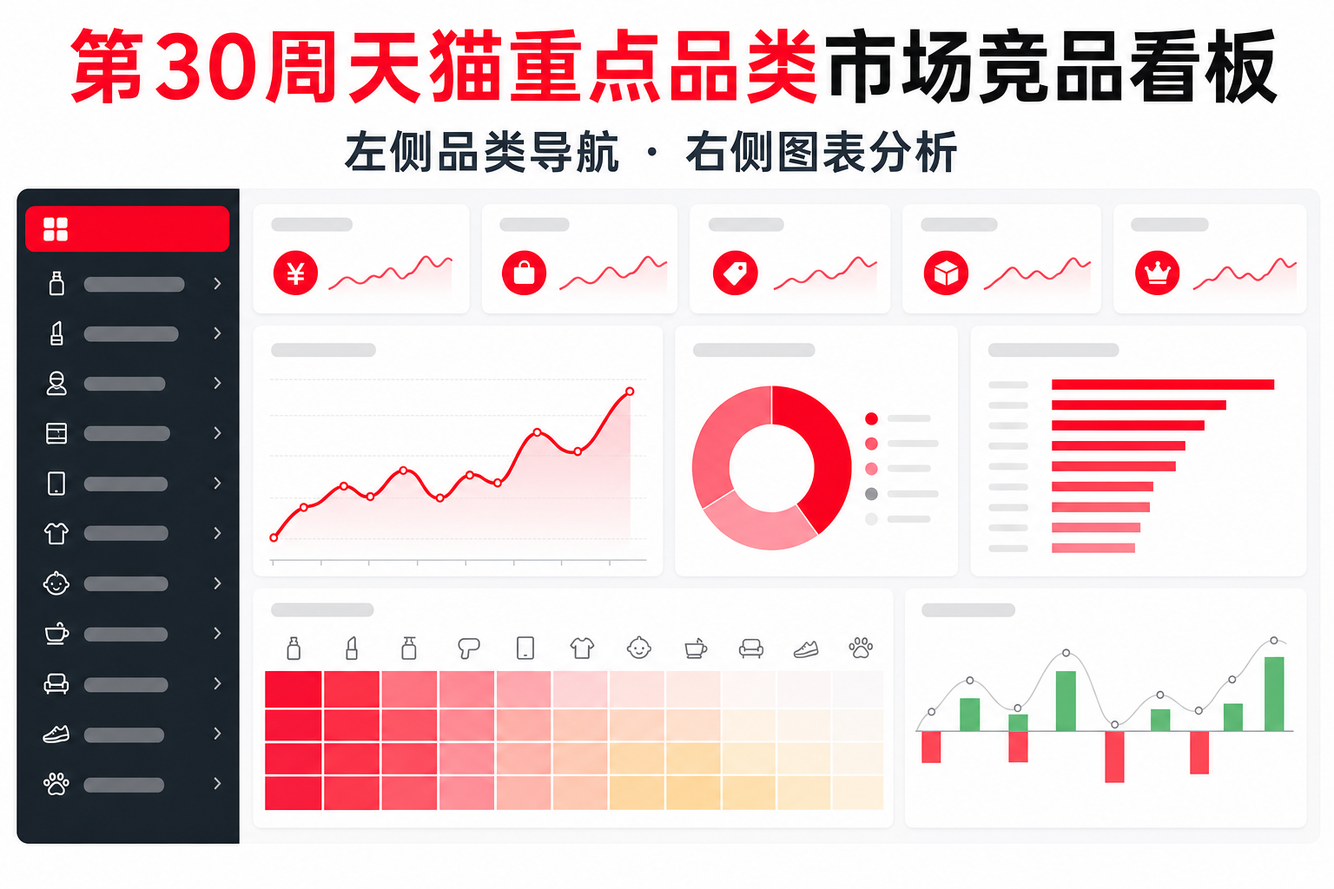
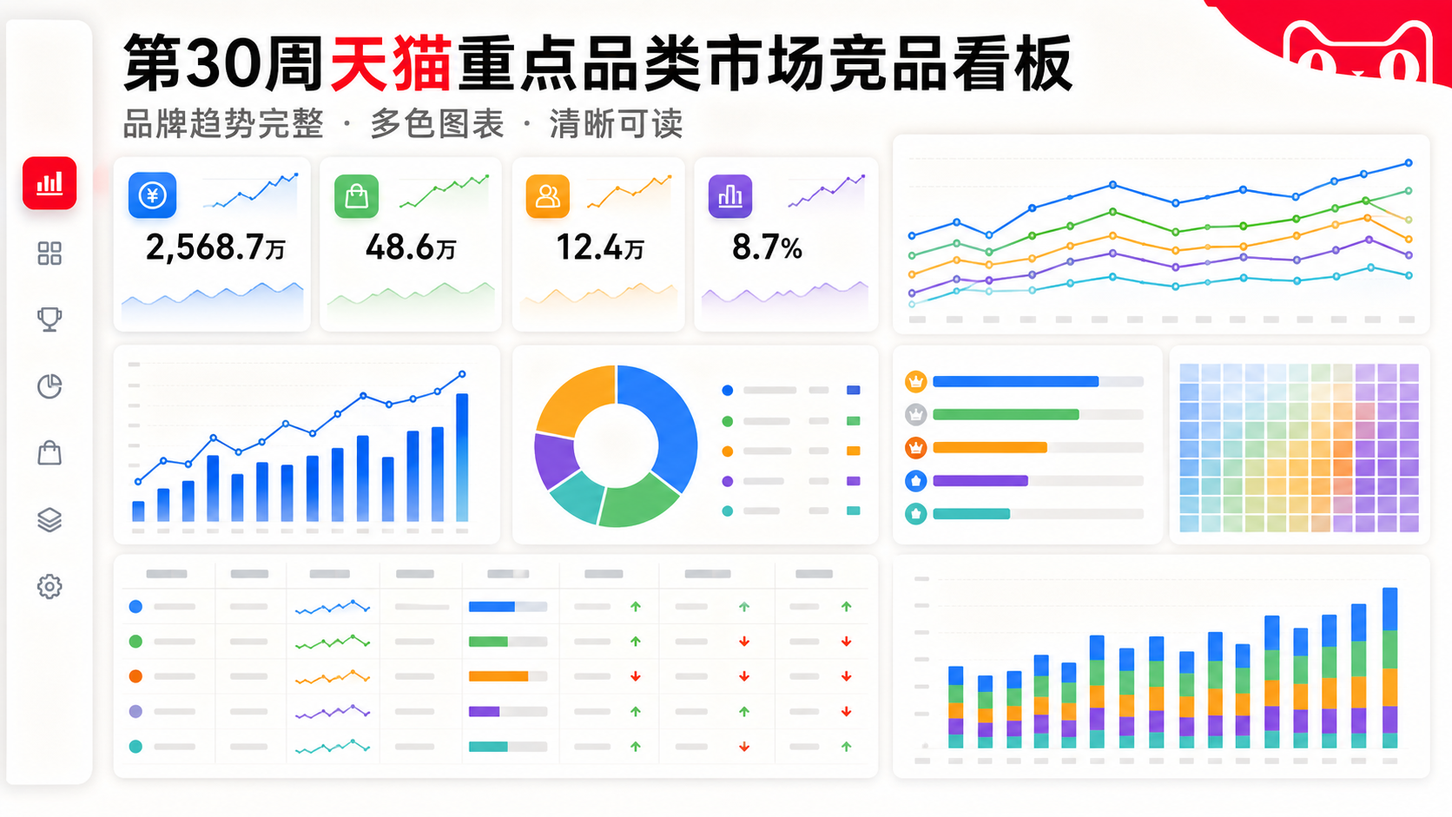
refine category analytics dashboard

diff --git a/app/globals.css b/app/globals.css
@@ -30,33 +30,36 @@ button,input,select { font:inherit; }
 .insight-banner span,.insight-banner strong{display:block}.insight-banner span{margin-bottom:4px;color:var(--red);font-size:11px;font-weight:800}.insight-banner strong{font-size:15px}.insight-banner p{margin:0;color:#60646a;font-size:12px;line-height:1.55}.insight-banner a{padding:9px 14px;color:#fff;background:var(--red);border-radius:5px;text-decoration:none;font-size:12px;font-weight:700}
 .visual-kpis { display:grid; grid-template-columns:repeat(5,1fr); gap:10px; margin-bottom:10px; }
 .visual-kpis article { position:relative; min-height:94px; padding:14px 16px; overflow:hidden; background:#fff; border:1px solid var(--line); border-radius:8px; box-shadow:0 3px 12px rgba(32,33,36,.035); }
-.visual-kpis article>i{position:absolute;right:12px;top:10px;color:#c6c8cb;font-style:normal;font-size:10px}.visual-kpis article>span,.visual-kpis article>small{display:block}.visual-kpis article>span{color:var(--muted);font-size:12px}.visual-kpis article>strong{display:block;margin:5px 0 1px;font-size:27px;letter-spacing:-.04em}.visual-kpis article>small{color:#9a9da2;font-size:11px}.visual-kpis .risk-kpi{color:#fff;background:linear-gradient(135deg,#ff1748,#e40030);border-color:var(--red)}.visual-kpis .risk-kpi>span,.visual-kpis .risk-kpi>small,.visual-kpis .risk-kpi>i{color:#ffdbe3}.kpi-spark{display:none}
+.visual-kpis article>i{position:absolute;right:12px;top:10px;color:#b8bcc1;font-style:normal;font-size:11px}.visual-kpis article>span,.visual-kpis article>small{display:block}.visual-kpis article>span{color:#555b62;font-size:13px}.visual-kpis article>strong{display:block;margin:5px 0 1px;font-size:29px;letter-spacing:-.04em}.visual-kpis article>small{color:#73777d;font-size:12px}.visual-kpis article:nth-child(1){border-top:4px solid #3478d4}.visual-kpis article:nth-child(2){border-top:4px solid #16a085}.visual-kpis article:nth-child(3){border-top:4px solid #7c62c8}.visual-kpis article:nth-child(4){border-top:4px solid #ef9b24}.visual-kpis .risk-kpi{color:#fff;background:linear-gradient(135deg,#ff315c,#e80033);border-color:var(--red);border-top:4px solid #b90029}.visual-kpis .risk-kpi>span,.visual-kpis .risk-kpi>small,.visual-kpis .risk-kpi>i{color:#fff}.kpi-spark{display:none}
 
 .visual-grid { display:grid; grid-template-columns:1.15fr 1.15fr .8fr; grid-auto-flow:dense; gap:10px; }
 .viz-card { min-width:0; padding:15px; color:var(--ink); background:#fff; border:1px solid var(--line); border-radius:8px; box-shadow:0 3px 12px rgba(32,33,36,.035); }
 .period-card,.category-card,.brand-chart-card{grid-column:span 2}.product-card{grid-column:span 2}
-.viz-title { display:flex; align-items:flex-start; justify-content:space-between; gap:12px; margin-bottom:10px; }.viz-title span{display:block;margin-bottom:3px;color:var(--red);font-size:10px;font-weight:800}.viz-title h2{margin:0;color:var(--ink);font-size:16px}.viz-title em{color:#9a9da2;font-size:10px;font-style:normal}
+.viz-title { display:flex; align-items:flex-start; justify-content:space-between; gap:12px; margin-bottom:10px; }.viz-title span{display:block;margin-bottom:3px;color:#58616a;font-size:12px;font-weight:800}.viz-title h2{margin:0;color:var(--ink);font-size:18px}.viz-title em{color:#666c73;font-size:12px;font-style:normal}
 .period-card canvas{display:block;width:100%}.chart-foot{display:flex;justify-content:space-between;color:var(--muted);font-size:10px}.chart-foot strong{color:var(--ink)}.dot{width:8px;height:8px;display:inline-block;margin-right:5px;border-radius:50%}.dot.red{background:var(--red)}.dot.dark{background:#2e3033}.dot.green{background:var(--green)}.dot.amber{background:var(--amber)}
 .donut-wrap{display:flex;align-items:center;justify-content:space-around;gap:12px;padding:5px}.donut{--rate:280deg;width:138px;height:138px;display:grid;place-items:center;background:conic-gradient(var(--red) 0 var(--rate),#ececef var(--rate) 360deg);border-radius:50%}.donut:before{content:"";grid-area:1/1;width:91px;height:91px;background:#fff;border-radius:50%}.donut>div{grid-area:1/1;z-index:1;text-align:center}.donut strong,.donut span{display:block}.donut strong{font-size:24px}.donut span{color:var(--muted);font-size:11px}.legend-block{min-width:112px}.legend-block>div{display:grid;grid-template-columns:14px 1fr auto;gap:5px;padding:8px 0;border-bottom:1px solid var(--line);font-size:11px}.viz-note{margin:8px 0 0;color:var(--muted);font-size:10px}
-.heatmap{display:grid;grid-template-columns:repeat(5,1fr);gap:6px}.heat-cell{position:relative;min-height:66px;padding:9px;overflow:hidden;background:#f7f7f8;border:1px solid var(--line);border-radius:5px}.heat-cell:after{content:"";position:absolute;left:0;right:0;bottom:0;height:5px}.heat-cell.hot:after{background:var(--red)}.heat-cell.warn:after{background:var(--amber)}.heat-cell.good:after{background:var(--green)}.heat-cell.stable:after{background:#969aa0}.heat-cell strong,.heat-cell span,.heat-cell b{display:block}.heat-cell strong{font-size:12px}.heat-cell span{margin-top:5px;color:var(--muted);font-size:10px}.heat-cell b{position:absolute;right:7px;bottom:7px;color:#d7d9dc;font-size:20px}.heat-legend{display:flex;gap:15px;padding-top:10px;color:var(--muted);font-size:10px}
+.heatmap{display:grid;grid-template-columns:repeat(5,1fr);gap:6px}.heat-cell{position:relative;min-height:72px;padding:10px;overflow:hidden;border:1px solid var(--line);border-radius:5px}.heat-cell:after{content:"";position:absolute;left:0;right:0;bottom:0;height:5px}.heat-cell.hot{background:#fff1f4}.heat-cell.warn{background:#fff8ec}.heat-cell.good{background:#effaf6}.heat-cell.stable{background:#f1f5fa}.heat-cell.hot:after{background:var(--red)}.heat-cell.warn:after{background:var(--amber)}.heat-cell.good:after{background:var(--green)}.heat-cell.stable:after{background:#6e8fb8}.heat-cell strong,.heat-cell span,.heat-cell b{display:block}.heat-cell strong{font-size:13px}.heat-cell span{margin-top:5px;color:#555b62;font-size:12px}.heat-cell b{position:absolute;right:7px;bottom:7px;color:#b9bec4;font-size:21px}.heat-legend{display:flex;gap:15px;padding-top:10px;color:#555b62;font-size:12px}
 .metric-tabs{display:flex;gap:3px;padding:3px;background:#f3f3f4;border-radius:4px}.metric-tabs button{border:0;padding:5px 8px;color:var(--muted);background:transparent;border-radius:3px;cursor:pointer;font-size:9px}.metric-tabs button.active{color:#fff;background:var(--red)}
-.brand-bars{display:grid;gap:8px}.brand-bar-row{display:grid;grid-template-columns:25px 64px 1fr 32px 32px;align-items:center;gap:7px;font-size:11px}.brand-index{color:#aaa;font-size:9px}.brand-bar-row>i{height:10px;background:#f0f0f1;border-radius:5px;overflow:hidden}.brand-bar-row>i b{display:block;height:100%;background:linear-gradient(90deg,#ff6a89,var(--red));border-radius:inherit}.brand-bar-row>i b.bar-risk{background:linear-gradient(90deg,#ffbb55,#ef8b1c)}.brand-bar-row>em{font-style:normal;text-align:right}.brand-bar-row>small{text-align:right}.negative{color:#e97817}.positive-text{color:var(--green)}
-.anomaly-bars{display:grid;gap:9px}.anomaly-bars>div{display:grid;grid-template-columns:105px 1fr 30px;align-items:center;gap:7px}.anomaly-bars span{font-size:10px;overflow:hidden;text-overflow:ellipsis;white-space:nowrap}.anomaly-bars i{height:8px;background:#f0f0f1;border-radius:5px;overflow:hidden}.anomaly-bars i b{display:block;height:100%;background:var(--red);border-radius:inherit}.anomaly-bars strong{font-size:10px;text-align:right}
+.brand-bars{display:grid;gap:9px}.brand-bar-row{display:grid;grid-template-columns:25px 70px 1fr 36px 36px;align-items:center;gap:7px;font-size:12px}.brand-index{color:#777;font-size:11px}.brand-bar-row>i{height:12px;background:#f0f0f1;border-radius:5px;overflow:hidden}.brand-bar-row>i b{display:block;height:100%;background:linear-gradient(90deg,#679de2,#3478d4);border-radius:inherit}.brand-bar-row:nth-child(2n)>i b{background:linear-gradient(90deg,#55c7a4,#16a085)}.brand-bar-row:nth-child(3n)>i b{background:linear-gradient(90deg,#aa91e0,#7c62c8)}.brand-bar-row>i b.bar-risk{background:linear-gradient(90deg,#ffc568,#ef9b24)}.brand-bar-row>em{font-style:normal;text-align:right}.brand-bar-row>small{text-align:right}.negative{color:#d47714}.positive-text{color:var(--green)}
+.anomaly-bars{display:grid;gap:10px}.anomaly-bars>div{display:grid;grid-template-columns:120px 1fr 34px;align-items:center;gap:7px}.anomaly-bars span{font-size:12px;overflow:hidden;text-overflow:ellipsis;white-space:nowrap}.anomaly-bars i{height:10px;background:#f0f0f1;border-radius:5px;overflow:hidden}.anomaly-bars i b{display:block;height:100%;background:#3478d4;border-radius:inherit}.anomaly-bars>div:nth-child(2n) i b{background:#16a085}.anomaly-bars>div:nth-child(3n) i b{background:#ef9b24}.anomaly-bars>div:nth-child(4n) i b{background:#7c62c8}.anomaly-bars strong{font-size:12px;text-align:right}
 .product-visual-list>div{display:grid;grid-template-columns:30px 1fr 120px 22px;align-items:center;gap:9px;min-height:48px;border-bottom:1px solid var(--line)}.track-rank{width:25px;height:25px;display:grid;place-items:center;color:#fff;background:var(--red);border-radius:5px;font-size:11px}.track-name strong,.track-name small{display:block}.track-name strong{font-size:11px}.track-name small{margin-top:3px;color:var(--muted);font-size:9px}.rank-track{height:27px;display:flex;align-items:end;justify-content:space-between;gap:5px;padding:0 5px;border-bottom:1px solid #ddd}.rank-track i{position:relative;width:24px;min-height:7px;background:#c8c9cc;border-radius:2px 2px 0 0}.rank-track i:last-child{background:var(--red)}.rank-track i b{position:absolute;left:50%;top:-11px;transform:translateX(-50%);font-size:8px}.track-arrow{color:var(--green);font-size:16px}
 
 .category-loading{height:60vh;display:grid;place-items:center;color:var(--muted);font-size:14px}
 .category-head{display:grid;grid-template-columns:1fr repeat(3,130px);align-items:center;gap:10px;margin-bottom:10px}.category-head>div:first-child{padding:10px 3px}.category-head>div:first-child span{color:var(--red);font-size:11px;font-weight:800}.category-head h2{margin:4px 0 3px;font-size:26px}.category-head p{margin:0;color:var(--muted);font-size:11px}.category-score{padding:12px 14px;background:#fff;border:1px solid var(--line);border-radius:8px}.category-score strong,.category-score span{display:block}.category-score strong{font-size:24px}.category-score span{color:var(--muted);font-size:11px}.category-score.red{color:#fff;background:var(--red);border-color:var(--red)}.category-score.red span{color:#ffdce4}
-.summary-ribbon{display:grid;grid-template-columns:repeat(4,1fr);gap:8px;margin-bottom:10px}.summary-ribbon article{min-width:0;padding:12px 14px;background:#fff;border:1px solid var(--line);border-top:3px solid #d8d9dc;border-radius:7px}.summary-ribbon article:nth-child(2){border-top-color:var(--green)}.summary-ribbon article:nth-child(3){border-top-color:var(--amber)}.summary-ribbon article:nth-child(4){border-top-color:var(--red)}.summary-ribbon span{color:var(--muted);font-size:10px;font-weight:700}.summary-ribbon p{display:-webkit-box;max-height:46px;margin:7px 0 0;overflow:hidden;-webkit-box-orient:vertical;-webkit-line-clamp:2;font-size:11px;line-height:1.55}
+.category-signal-kpis{display:grid;grid-template-columns:repeat(4,1fr);gap:9px;margin-bottom:10px}.category-signal-kpis article{position:relative;padding:13px 15px;overflow:hidden;background:#fff;border:1px solid var(--line);border-radius:8px}.category-signal-kpis article:before{content:"";position:absolute;left:0;top:0;bottom:0;width:4px}.category-signal-kpis .blue:before{background:#3478d4}.category-signal-kpis .orange:before{background:#ef9b24}.category-signal-kpis .green:before{background:#16a085}.category-signal-kpis .purple:before{background:#7c62c8}.category-signal-kpis span,.category-signal-kpis strong,.category-signal-kpis small{display:block}.category-signal-kpis span{color:#555b62;font-size:12px}.category-signal-kpis strong{margin:4px 0;font-size:24px}.category-signal-kpis small{min-height:18px;color:#73777d;font-size:11px;overflow-wrap:anywhere}
 .category-grid{display:grid;grid-template-columns:1.2fr .9fr;gap:10px}.light-card{min-width:0;padding:15px;background:#fff;border:1px solid var(--line);border-radius:8px}.light-title{display:flex;justify-content:space-between;gap:10px;margin-bottom:12px}.light-title span{color:var(--red);font-size:10px;font-weight:800}.light-title h3{margin:3px 0 0;font-size:16px}.light-title small{color:var(--muted);font-size:10px}
-.light-bars{display:grid;gap:7px}.light-bars>div{display:grid;grid-template-columns:20px 75px 1fr 25px 105px;align-items:center;gap:6px;min-height:24px;font-size:10px}.light-bars>div>b{color:#b4b5b8}.light-bars>div>i{height:9px;background:#f0f0f1;border-radius:5px;overflow:hidden}.light-bars>div>i em{display:block;height:100%;background:linear-gradient(90deg,#ff7693,var(--red));border-radius:inherit}.light-bars>div>small{overflow:hidden;color:var(--muted);text-overflow:ellipsis;white-space:nowrap}
-.product-tracks-light>div{display:grid;grid-template-columns:26px 1fr 94px;align-items:center;gap:8px;min-height:43px;border-bottom:1px solid var(--line)}.rank-pill{width:23px;height:23px;display:grid;place-items:center;color:#fff;background:var(--red);border-radius:4px;font-size:10px}.product-tracks-light p{margin:0}.product-tracks-light p strong,.product-tracks-light p small{display:block}.product-tracks-light p strong{font-size:10px}.product-tracks-light p small{margin-top:3px;color:var(--muted);font-size:9px}.product-tracks-light>div>div{height:25px;display:flex;align-items:end;gap:8px}.product-tracks-light i{position:relative;width:20px;min-height:6px;background:#c9cace}.product-tracks-light i:last-child{background:var(--red)}.product-tracks-light i b{position:absolute;top:-11px;left:50%;transform:translateX(-50%);font-size:8px}
-.segment-bubbles{min-height:270px;display:flex;align-items:center;justify-content:center;gap:9px;flex-wrap:wrap}.segment-bubbles>div{width:var(--size);height:var(--size);display:flex;flex-direction:column;align-items:center;justify-content:center;padding:7px;text-align:center;background:#fff0f3;border:1px solid #ffc6d2;border-radius:50%}.segment-bubbles strong{max-width:85%;overflow:hidden;font-size:9px;text-overflow:ellipsis;white-space:nowrap}.segment-bubbles b{color:var(--red);font-size:19px}.segment-bubbles small{font-size:8px}.segment-bubbles span{display:none}
-.conclusion-card>p{min-height:130px;margin:0 0 12px;padding:14px;color:#51545a;background:#fafafa;border-left:3px solid var(--red);font-size:12px;line-height:1.7}.decision-scale{display:grid;grid-template-columns:70px 1fr 65px;align-items:center;gap:8px;margin:12px 0;font-size:10px}.decision-scale i{height:9px;background:#eee;border-radius:5px;overflow:hidden}.decision-scale i b{display:block;height:100%;background:var(--red);border-radius:inherit}
+.light-bars{display:grid;gap:6px}.light-bars>div{display:grid;grid-template-columns:24px minmax(110px,145px) 72px 72px minmax(145px,1fr);align-items:center;gap:8px;min-height:38px;padding-bottom:5px;border-bottom:1px solid #f0f1f2;font-size:12px}.light-bars>div>b{color:#747980;font-size:12px}.light-bars>div>strong{overflow:visible;line-height:1.3;white-space:normal;overflow-wrap:anywhere}.matrix-mini-bars{height:27px;display:flex;align-items:end;gap:5px}.matrix-mini-bars i{width:15px;min-height:4px;background:#3478d4;border-radius:2px 2px 0 0}.matrix-mini-bars i:nth-child(2){background:#16a085}.matrix-mini-bars i:nth-child(3){background:#7c62c8}.light-bars>div>span{font-weight:700;color:#34383d;white-space:nowrap}.light-bars>div>em{display:block;padding:5px 8px;border-radius:4px;font-size:12px;font-style:normal;line-height:1.35;white-space:normal}.light-bars>div>em.grow{color:#087a58;background:#e8f7f1}.light-bars>div>em.shrink{color:#b76a08;background:#fff3df}.light-bars>div>em.flat{color:#51677e;background:#edf3f8}
+.product-tracks-light>div{display:grid;grid-template-columns:30px 1fr 100px;align-items:center;gap:8px;min-height:49px;border-bottom:1px solid var(--line)}.rank-pill{width:27px;height:27px;display:grid;place-items:center;color:#fff;background:#3478d4;border-radius:5px;font-size:12px}.product-tracks-light>div:nth-child(2n) .rank-pill{background:#16a085}.product-tracks-light p{margin:0}.product-tracks-light p strong,.product-tracks-light p small{display:block}.product-tracks-light p strong{font-size:12px}.product-tracks-light p small{margin-top:3px;color:#666c73;font-size:11px}.product-tracks-light>div>div{height:27px;display:flex;align-items:end;gap:8px}.product-tracks-light i{position:relative;width:21px;min-height:6px;background:#c9cace}.product-tracks-light i:last-child{background:#7c62c8}.product-tracks-light i b{position:absolute;top:-12px;left:50%;transform:translateX(-50%);font-size:10px}
+.segment-bubbles{min-height:270px;display:flex;align-items:center;justify-content:center;gap:9px;flex-wrap:wrap}.segment-bubbles>div{width:var(--size);height:var(--size);display:flex;flex-direction:column;align-items:center;justify-content:center;padding:7px;text-align:center;background:#eef5ff;border:1px solid #c9ddf8;border-radius:50%}.segment-bubbles>div:nth-child(2n){background:#eaf8f3;border-color:#bfe9d9}.segment-bubbles>div:nth-child(3n){background:#fff6e8;border-color:#f6d8a6}.segment-bubbles>div:nth-child(4n){background:#f3effc;border-color:#d9cef1}.segment-bubbles strong{max-width:85%;overflow:hidden;font-size:11px;text-overflow:ellipsis;white-space:nowrap}.segment-bubbles b{color:#3478d4;font-size:19px}.segment-bubbles>div:nth-child(2n) b{color:#16a085}.segment-bubbles>div:nth-child(3n) b{color:#d58413}.segment-bubbles>div:nth-child(4n) b{color:#7c62c8}.segment-bubbles small{font-size:10px}.segment-bubbles span{display:none}
+.action-cards{display:grid;grid-template-columns:repeat(3,1fr);gap:8px;margin-bottom:18px}.action-cards>div{padding:13px;background:#f6f8fa;border:1px solid #e8ebee;border-radius:7px}.action-cards>div:nth-child(1){border-top:3px solid #3478d4}.action-cards>div:nth-child(2){border-top:3px solid #16a085}.action-cards>div:nth-child(3){border-top:3px solid #ef9b24}.action-cards span,.action-cards strong,.action-cards small{display:block}.action-cards span{color:#656b72;font-size:11px}.action-cards strong{margin:5px 0;font-size:16px}.action-cards small{color:#73777d;font-size:11px}.decision-scale{display:grid;grid-template-columns:78px 1fr 74px;align-items:center;gap:8px;margin:15px 0;font-size:12px}.decision-scale i{height:10px;background:#eee;border-radius:5px;overflow:hidden}.decision-scale i b{display:block;height:100%;background:#3478d4;border-radius:inherit}.decision-scale:nth-of-type(2) i b{background:#16a085}
 
 .data-center{padding:0;background:transparent}.data-title{display:flex;align-items:end;justify-content:space-between;gap:18px;padding:0 0 12px}.data-title .eyebrow{margin:0;color:var(--red);font-size:10px;font-weight:800}.data-title h2{margin:4px 0;font-size:21px}.data-title p{margin:0;color:var(--muted);font-size:11px}.coverage{display:grid;grid-template-columns:repeat(4,90px);gap:7px}.coverage div{padding:9px 10px;background:#fff;border:1px solid var(--line);border-radius:6px}.coverage strong,.coverage span{display:block}.coverage strong{font-size:15px}.coverage span{color:var(--muted);font-size:9px}
 .source-analysis{display:grid;grid-template-columns:1fr 1.2fr 1fr 1.2fr;align-items:center;gap:12px;padding:10px 13px;margin-bottom:10px;background:#fff;border:1px solid var(--line);border-left:3px solid var(--red)}.source-analysis span,.source-analysis strong{display:block}.source-analysis span{color:var(--muted);font-size:9px}.source-analysis strong{margin-top:3px;font-size:10px}.stacked-bar{display:flex;height:8px;background:#ddd;border-radius:8px;overflow:hidden}.stacked-bar i{display:block;background:var(--red)}.stacked-bar b{flex:1;background:#333}
 .explorer-layout{display:grid;grid-template-columns:210px minmax(0,1fr);gap:10px}.sheet-list{max-height:700px;padding:7px;overflow-y:auto;background:#fff;border:1px solid var(--line);border-radius:7px}.sheet-list>p{margin:5px 8px;color:var(--muted);font-size:10px}.sheet-list button{width:100%;display:grid;grid-template-columns:23px 1fr;gap:6px;align-items:center;padding:8px;border:0;background:transparent;border-radius:5px;text-align:left;cursor:pointer}.sheet-list button.active{color:#fff;background:var(--red)}.sheet-list button>span{font-size:9px}.sheet-list button strong,.sheet-list button small{display:block}.sheet-list button strong{max-width:145px;overflow:hidden;font-size:10px;text-overflow:ellipsis;white-space:nowrap}.sheet-list button small{margin-top:2px;color:#aaa;font-size:8px}.sheet-list button.active small{color:#ffdce4}
-.data-workspace{min-width:0;padding:10px;background:#fff;border:1px solid var(--line);border-radius:7px}.data-toolbar{display:grid;grid-template-columns:minmax(150px,.8fr) minmax(250px,1.5fr) 90px auto;align-items:end;gap:9px}.data-toolbar span,.data-toolbar strong,.data-toolbar small{display:block}.data-toolbar span{color:var(--muted);font-size:9px}.data-toolbar strong{margin-top:3px;font-size:12px}.data-toolbar small{color:#aaa;font-size:8px}.data-toolbar input,.data-toolbar select{width:100%;height:32px;border:1px solid var(--line);padding:0 9px;border-radius:4px;outline:none;font-size:10px}.download{height:32px;padding:0 12px;border:0;color:#fff;background:var(--red);border-radius:4px;font-size:10px}.result-meta{display:flex;gap:6px;margin:8px 0;font-size:9px}.result-meta span,.result-meta b{padding:3px 6px;background:#f3f3f4;border-radius:3px}.raw-grid-wrap{height:535px;overflow:auto;border:1px solid var(--line)}.data-loading{height:100%;display:grid;place-items:center}.raw-grid{width:max-content;min-width:100%;border-collapse:separate;border-spacing:0;font-size:10px}.raw-grid th{position:sticky;top:0;z-index:3;min-width:95px;padding:8px;color:#fff;background:#2e2f32}.raw-grid .row-number{position:sticky;left:0;z-index:4;min-width:43px;width:43px;color:#888;background:#f3f3f4;text-align:center}.raw-grid thead .row-number{z-index:5;color:#fff;background:var(--red)}.raw-grid td{max-width:300px;padding:8px;overflow:hidden;border-right:1px solid #eee;border-bottom:1px solid #eee;text-overflow:ellipsis;white-space:nowrap}.raw-grid tbody tr:first-child td{background:#fff0f3;font-weight:700}.pagination{display:flex;justify-content:flex-end;align-items:center;gap:5px;padding-top:8px}.pagination button{padding:5px 9px;border:1px solid var(--line);background:#fff;border-radius:4px;font-size:9px}.pagination span{font-size:9px}
+.data-workspace{min-width:0;padding:10px;background:#fff;border:1px solid var(--line);border-radius:7px}.data-toolbar{display:grid;grid-template-columns:minmax(150px,.8fr) minmax(250px,1.5fr) 90px auto;align-items:end;gap:9px}.data-toolbar span,.data-toolbar strong,.data-toolbar small{display:block}.data-toolbar span{color:var(--muted);font-size:11px}.data-toolbar strong{margin-top:3px;font-size:13px}.data-toolbar small{color:#777;font-size:11px}.data-toolbar input,.data-toolbar select{width:100%;height:34px;border:1px solid var(--line);padding:0 9px;border-radius:4px;outline:none;font-size:12px}.download{height:34px;padding:0 12px;border:0;color:#fff;background:var(--red);border-radius:4px;font-size:12px}.result-meta{display:flex;gap:6px;margin:8px 0;font-size:11px}.result-meta span,.result-meta b{padding:3px 6px;background:#f3f3f4;border-radius:3px}.raw-grid-wrap{height:535px;overflow:auto;border:1px solid var(--line)}.data-loading{height:100%;display:grid;place-items:center}.raw-grid{width:max-content;min-width:100%;border-collapse:separate;border-spacing:0;font-size:12px}.raw-grid th{position:sticky;top:0;z-index:3;min-width:105px;padding:9px;color:#fff;background:#2e2f32;font-size:11px}.raw-grid .row-number{position:sticky;left:0;z-index:4;min-width:43px;width:43px;color:#666;background:#f3f3f4;text-align:center}.raw-grid thead .row-number{z-index:5;color:#fff;background:var(--red)}.raw-grid td{max-width:320px;padding:9px;overflow:hidden;border-right:1px solid #eee;border-bottom:1px solid #eee;text-overflow:ellipsis;white-space:nowrap}.raw-grid tbody tr:first-child td{background:#fff0f3;font-weight:700}.pagination{display:flex;justify-content:flex-end;align-items:center;gap:5px;padding-top:8px}.pagination button{padding:6px 10px;border:1px solid var(--line);background:#fff;border-radius:4px;font-size:11px}.pagination span{font-size:11px}
 
-@media(max-width:1100px){.app-shell{grid-template-columns:190px minmax(0,1fr)}.visual-grid{grid-template-columns:1fr 1fr}.period-card,.category-card,.brand-chart-card,.product-card{grid-column:span 1}.heatmap{grid-template-columns:repeat(3,1fr)}.category-head{grid-template-columns:1fr repeat(3,100px)}.summary-ribbon{grid-template-columns:1fr 1fr}.category-grid{grid-template-columns:1fr}.head-kpis{display:none}}
+.chart-foot,.viz-note,.track-name small,.product-tracks-light p small,.light-title small{font-size:11px}.track-name strong,.product-tracks-light p strong,.legend-block>div{font-size:12px}.product-visual-list>div{min-height:54px}.rank-track i b,.product-tracks-light i b{font-size:11px}.light-title span{font-size:12px}.light-title h3{font-size:18px}.product-tracks-light>div{min-height:49px}.segment-bubbles strong{font-size:11px}.segment-bubbles small{font-size:11px}.data-title .eyebrow,.data-title p,.coverage span,.source-analysis span,.source-analysis strong,.sheet-list>p,.sheet-list button strong{font-size:11px}.sheet-list button small{font-size:11px}
+.tmall-brand small,.left-nav button i,.nav-foot span,.nav-foot small,.stage-head>div:first-child>span,.chart-foot,.sheet-list>p{font-size:11px}
+
+@media(max-width:1100px){.app-shell{grid-template-columns:190px minmax(0,1fr)}.visual-grid{grid-template-columns:1fr 1fr}.period-card,.category-card,.brand-chart-card,.product-card{grid-column:span 1}.heatmap{grid-template-columns:repeat(3,1fr)}.category-head{grid-template-columns:1fr repeat(3,100px)}.category-signal-kpis{grid-template-columns:1fr 1fr}.category-grid{grid-template-columns:1fr}.head-kpis{display:none}}
 @media(max-width:760px){.app-shell{display:block}.left-nav{position:sticky;z-index:20;width:100%;height:auto;padding:9px;overflow-x:auto;flex-direction:row;align-items:center}.tmall-brand{min-width:170px;padding:0 12px 0 0;border:0}.nav-label,.nav-foot{display:none}.left-nav>button,.category-nav button{width:auto;min-width:max-content}.category-nav{display:flex;overflow:visible}.right-stage{min-width:700px}.stage-content{padding:10px}.stage-head{padding:0 14px}.source-analysis{grid-template-columns:1fr 1fr}}

diff --git a/app/CategoryDashboard.tsx b/app/CategoryDashboard.tsx
@@ -31,14 +31,6 @@ export function CategoryDashboard({ category }: { category: string }) {
     fetch(`/data/${FILE_MAP[category]}.json`).then((response) => response.json()).then((data) => setRows(data.values));
   }, [category]);
 
-  const summary = useMemo(() => ({
-    pattern: value(rows[5], 1),
-    matrix: value(rows[6], 1),
-    product: value(rows[7], 1),
-    risk: value(rows[8], 1),
-    next: value(rows[9], 1),
-  }), [rows]);
-
   const brands = useMemo<Brand[]>(() => rows.slice(13, 44).filter((row) => value(row, 1)).map((row) => ({
     name: value(row, 1), top10: value(row, 2), top30: value(row, 3), top100: value(row, 4), tag: value(row, 5), judgment: value(row, 6),
   })), [rows]);
@@ -52,7 +44,16 @@ export function CategoryDashboard({ category }: { category: string }) {
     name: value(row, 0), top10: value(row, 1), top30: value(row, 2), top100: value(row, 3), judgment: value(row, 4),
   })), [rows]);
 
-  const brandMax = Math.max(...brands.map((brand) => trendLast(brand.top100)), 1);
+  const expanding = brands.filter((brand) => {
+    const values = trendValues(brand.top100);
+    return (values.at(-1) ?? 0) > (values[0] ?? 0);
+  });
+  const shrinking = brands.filter((brand) => {
+    const values = trendValues(brand.top100);
+    return (values.at(-1) ?? 0) < (values[0] ?? 0);
+  });
+  const top10Total = brands.reduce((sum, brand) => sum + trendLast(brand.top10), 0);
+  const strongest = [...brands].sort((a, b) => trendLast(b.top100) - trendLast(a.top100))[0];
   if (!rows.length) return <div className="category-loading">正在加载 {category} 完整分析…</div>;
 
   return (
@@ -64,20 +65,28 @@ export function CategoryDashboard({ category }: { category: string }) {
         <div className="category-score"><strong>{segments.length}</strong><span>细分方向</span></div>
       </div>
 
-      <div className="summary-ribbon">
-        <article><span>类目格局</span><p>{summary.pattern}</p></article>
-        <article><span>品牌矩阵</span><p>{summary.matrix}</p></article>
-        <article><span>风险提示</span><p>{summary.risk}</p></article>
-        <article><span>下周观察</span><p>{summary.next}</p></article>
+      <div className="category-signal-kpis">
+        <article className="blue"><span>矩阵扩张品牌</span><strong>{expanding.length}</strong><small>{expanding.slice(0, 3).map((item) => item.name).join(" · ") || "暂无"}</small></article>
+        <article className="orange"><span>矩阵收缩品牌</span><strong>{shrinking.length}</strong><small>{shrinking.slice(0, 3).map((item) => item.name).join(" · ") || "暂无"}</small></article>
+        <article className="green"><span>本周Top10占位</span><strong>{top10Total}</strong><small>头部商品合计</small></article>
+        <article className="purple"><span>最强品牌矩阵</span><strong>{strongest?.name ?? "—"}</strong><small>Top100：{strongest ? trendLast(strongest.top100) : 0} 个</small></article>
       </div>
 
       <div className="category-grid">
         <article className="light-card brand-rank-chart">
-          <div className="light-title"><div><span>品牌占位</span><h3>Top100矩阵强度</h3></div><small>最新周入榜商品数</small></div>
+          <div className="light-title"><div><span>品牌矩阵</span><h3>三周入榜强度与变化</h3></div><small>Top10 / Top100</small></div>
           <div className="light-bars">
-            {brands.slice(0, 12).map((brand, index) => {
+            {brands.slice(0, 15).map((brand, index) => {
               const latest = trendLast(brand.top100);
-              return <div key={`${brand.name}-${index}`}><b>{index + 1}</b><strong>{brand.name}</strong><i><em style={{ width: `${(latest / brandMax) * 100}%` }} /></i><span>{latest}</span><small>{brand.tag}</small></div>;
+              const values = trendValues(brand.top100);
+              const max = Math.max(...values, 1);
+              return <div key={`${brand.name}-${index}`}>
+                <b>{index + 1}</b>
+                <strong title={brand.name}>{brand.name}</strong>
+                <div className="matrix-mini-bars">{values.map((number, valueIndex) => <i key={valueIndex} style={{ height: `${Math.max(16, number / max * 100)}%` }} />)}</div>
+                <span>{brand.top100}</span>
+                <em className={values[2] > values[0] ? "grow" : values[2] < values[0] ? "shrink" : "flat"}>{brand.tag}</em>
+              </div>;
             })}
           </div>
         </article>
@@ -110,8 +119,12 @@ export function CategoryDashboard({ category }: { category: string }) {
         </article>
 
         <article className="light-card conclusion-card">
-          <div className="light-title"><div><span>经营结论</span><h3>单品绝对实力</h3></div></div>
-          <p>{summary.product}</p>
+          <div className="light-title"><div><span>行动建议</span><h3>本周关注重点</h3></div></div>
+          <div className="action-cards">
+            <div><span>品牌</span><strong>{expanding[0]?.name ?? strongest?.name ?? "观察头部品牌"}</strong><small>优先跟进矩阵扩张</small></div>
+            <div><span>单品</span><strong>{products.find((item) => item.status.includes("上升") || item.status.includes("冲入"))?.brand ?? products[0]?.brand ?? "—"}</strong><small>复盘排名改善原因</small></div>
+            <div><span>细分</span><strong>{segments.sort((a, b) => trendLast(b.top100) - trendLast(a.top100))[0]?.name ?? "—"}</strong><small>关注Top100规模</small></div>
+          </div>
           <div className="decision-scale">
             <span>头部集中</span><i><b style={{ width: `${Math.min(100, products.filter((item) => item.rank <= 3).length * 25)}%` }} /></i><strong>{products.filter((item) => item.rank <= 3).length}个Top3</strong>
           </div>
